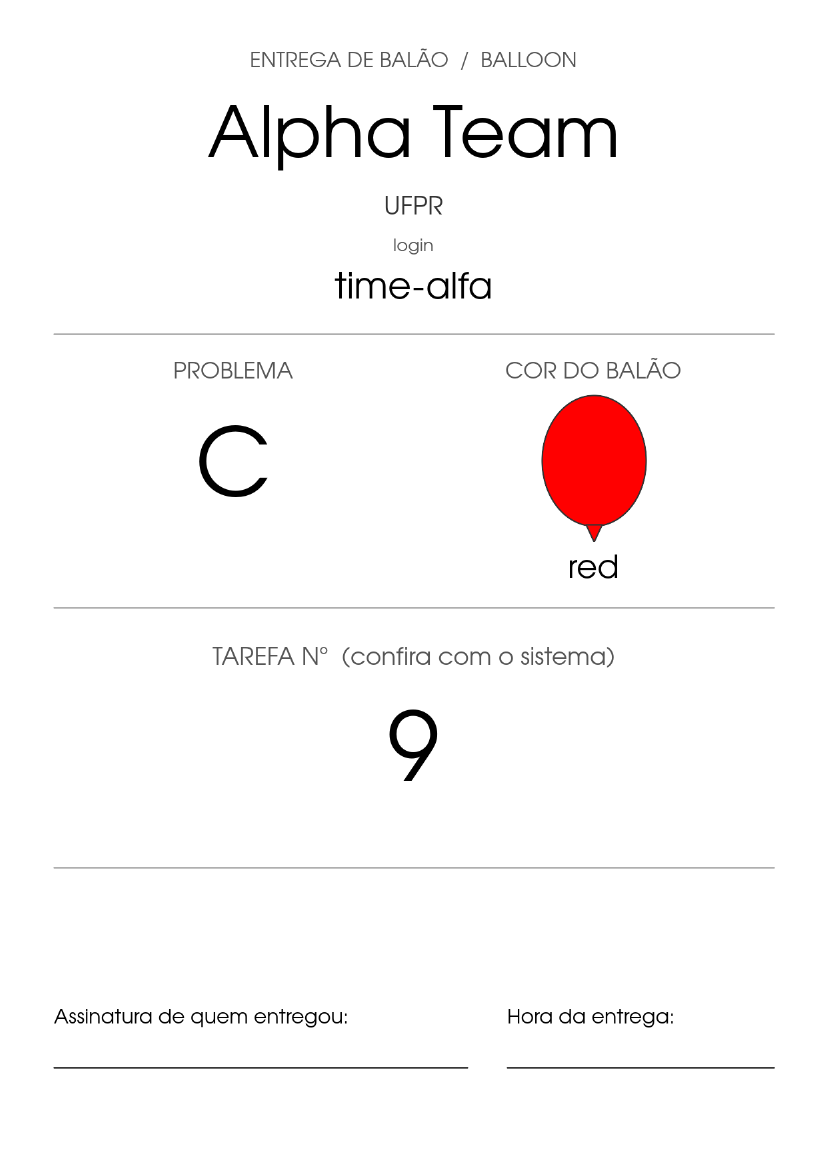
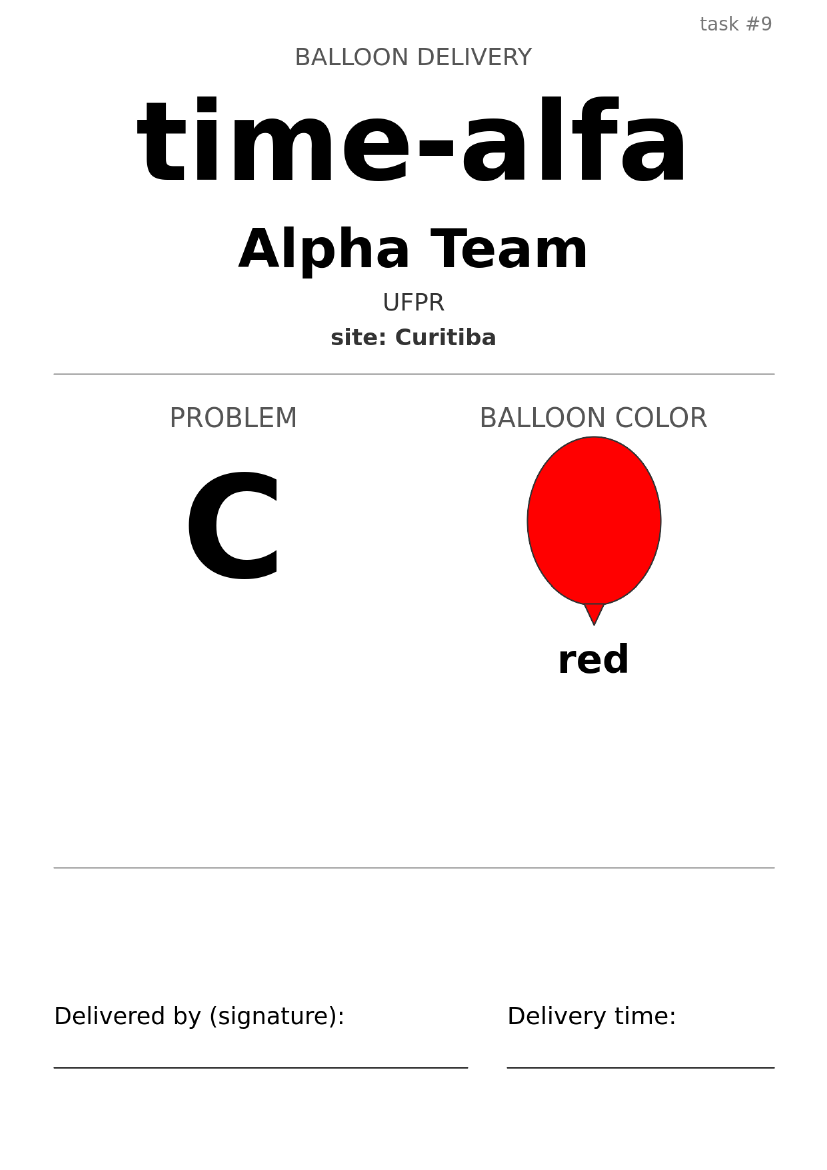
impressão: folha de rosto e de balão com o login em destaque e o nº da tarefa pequeno
Relato da Camila: o número da tarefa era o maior texto da folha (220 px,
contra 100 px do login no rosto e 78 px no balão), lido como destino, e
houve entregas erradas de balão e impressão. Layout aprovado por ela:

- o LOGIN é o maior texto das duas folhas (é por ele que a sala acha o
  time); depois o nome do time, a universidade e a SEDE
- o nº da tarefa vai pequeno para o canto de cima ("tarefa nº 789"),
  só para conferir com o sistema
- no balão, a letra e o balão maiores no espaço que o nº ocupava
- a sede pela regra única de sedes (rg_site_of), só com o módulo sedes
  (_pr_site); rótulos taskshort/site em pt/en/es
- folha de teste: "TESTE DE IMPRESSÃO" no lugar do login
- o cache das folhas se refaz no deploy (5a603488)
- smoke-print-render: a sede com e sem o módulo (53)
- docs: MANUAL-STAFF pt/en/es; as imagens do tutorial refeitas pelo
  shots-ajuda.sh

diff --git a/docs/es/MANUAL-STAFF.md b/docs/es/MANUAL-STAFF.md
@@ -1,4 +1,4 @@
-<!-- i18n-source: MANUAL-STAFF.md blob:399c1548fe5ab18936345525ee8b920fde793477 -->
+<!-- i18n-source: MANUAL-STAFF.md blob:6a99b75004c337adc9866f28a2ed6661f947bb50 -->
 # MOJ: Manual del personal de sala (.staff y .cstaff)
 
 > **Nota de traducción.** Este manual es una traducción del original en portugués. Las herramientas de línea de comandos (`moj`, `moj-contest`, `moj-comp`) muestran sus mensajes en portugués, y los ejemplos de comandos son idénticos al original.
@@ -76,8 +76,10 @@ ves en las pantallas del [tutorial ilustrado](/contest/ajuda/staff.html).
 
 #### Qué sale de la impresora
 
-Primero la **portada** (equipo, universidad, usuario, número de la tarea, número de páginas y una
-línea para firmar), después el documento. El código fuente sale en **fuente monoespaciada, con la
+Primero la **portada**, después el documento. En la portada, el **usuario del equipo es el texto más grande**: con
+él encuentras al equipo en la sala. Debajo vienen el nombre del equipo, la universidad y la sede, el número de páginas
+y la línea para firmar. El **número de la tarea** va pequeño en la esquina de arriba: solo sirve para verificar con el
+sistema. La hoja del globo sigue el mismo molde: usuario arriba, después el problema y el color del globo. El código fuente sale en **fuente monoespaciada, con la
 indentación original y las líneas numeradas** — se puede señalar con el dedo y decir "línea 42".
 
 **Cada página de código se identifica sola**, arriba y abajo: arriba, la fecha y el nombre del

diff --git a/docs/en/MANUAL-STAFF.md b/docs/en/MANUAL-STAFF.md
@@ -1,4 +1,4 @@
-<!-- i18n-source: MANUAL-STAFF.md blob:399c1548fe5ab18936345525ee8b920fde793477 -->
+<!-- i18n-source: MANUAL-STAFF.md blob:6a99b75004c337adc9866f28a2ed6661f947bb50 -->
 # MOJ: Room staff manual (.staff and .cstaff)
 
 > **Translation note.** This manual is a translation of the Portuguese original. The command-line tools (`moj`, `moj-contest`, `moj-comp`) print their messages in Portuguese, and the command examples below are identical to the original.
@@ -76,8 +76,10 @@ The screens in the [illustrated tutorial](/contest/ajuda/staff.html) show the En
 
 #### What comes out of the printer
 
-First the **cover sheet** (team, university, login, task number, number of pages and a
-line for a signature), then the document. Source code comes out in a **monospaced font, with the
+First the **cover sheet**, then the document. On the cover sheet, the **team login is the largest text**: you use
+it to find the team in the room. Below it come the team name, the university and the site, the number of pages and
+the line for a signature. The **task number** is small, in the top corner: you use it only to check against the
+system. The balloon sheet uses the same layout: login at the top, then the problem and the balloon color. Source code comes out in a **monospaced font, with the
 original indentation and numbered lines**. So you can point to a line and say "line 42".
 
 **Each page of code identifies itself**, at the top and at the bottom. At the top: the date and the

diff --git a/docs/MANUAL-STAFF.md b/docs/MANUAL-STAFF.md
@@ -72,8 +72,10 @@ vê nas telas do [tutorial ilustrado](/contest/ajuda/staff.html).
 
 #### O que sai na impressora
 
-Primeiro a **folha de rosto** (time, universidade, login, número da tarefa, nº de páginas e uma
-linha para assinar), depois o documento. Código-fonte sai em **fonte monoespaçada, com a
+Primeiro a **folha de rosto**, depois o documento. Na folha de rosto, o **login do time é o maior texto**: é por ele
+que você acha o time na sala. Embaixo vêm o nome do time, a universidade e a sede, o nº de páginas e a linha para
+assinar. O **número da tarefa** fica pequeno no canto de cima: serve só para conferir com o sistema. A folha do
+balão segue o mesmo molde: login no topo, depois o problema e a cor do balão. Código-fonte sai em **fonte monoespaçada, com a
 indentação original e as linhas numeradas** — dá para apontar o dedo e dizer "linha 42".
 
 **Cada página de código se identifica sozinha**, em cima e embaixo: no alto, a data e o nome do
